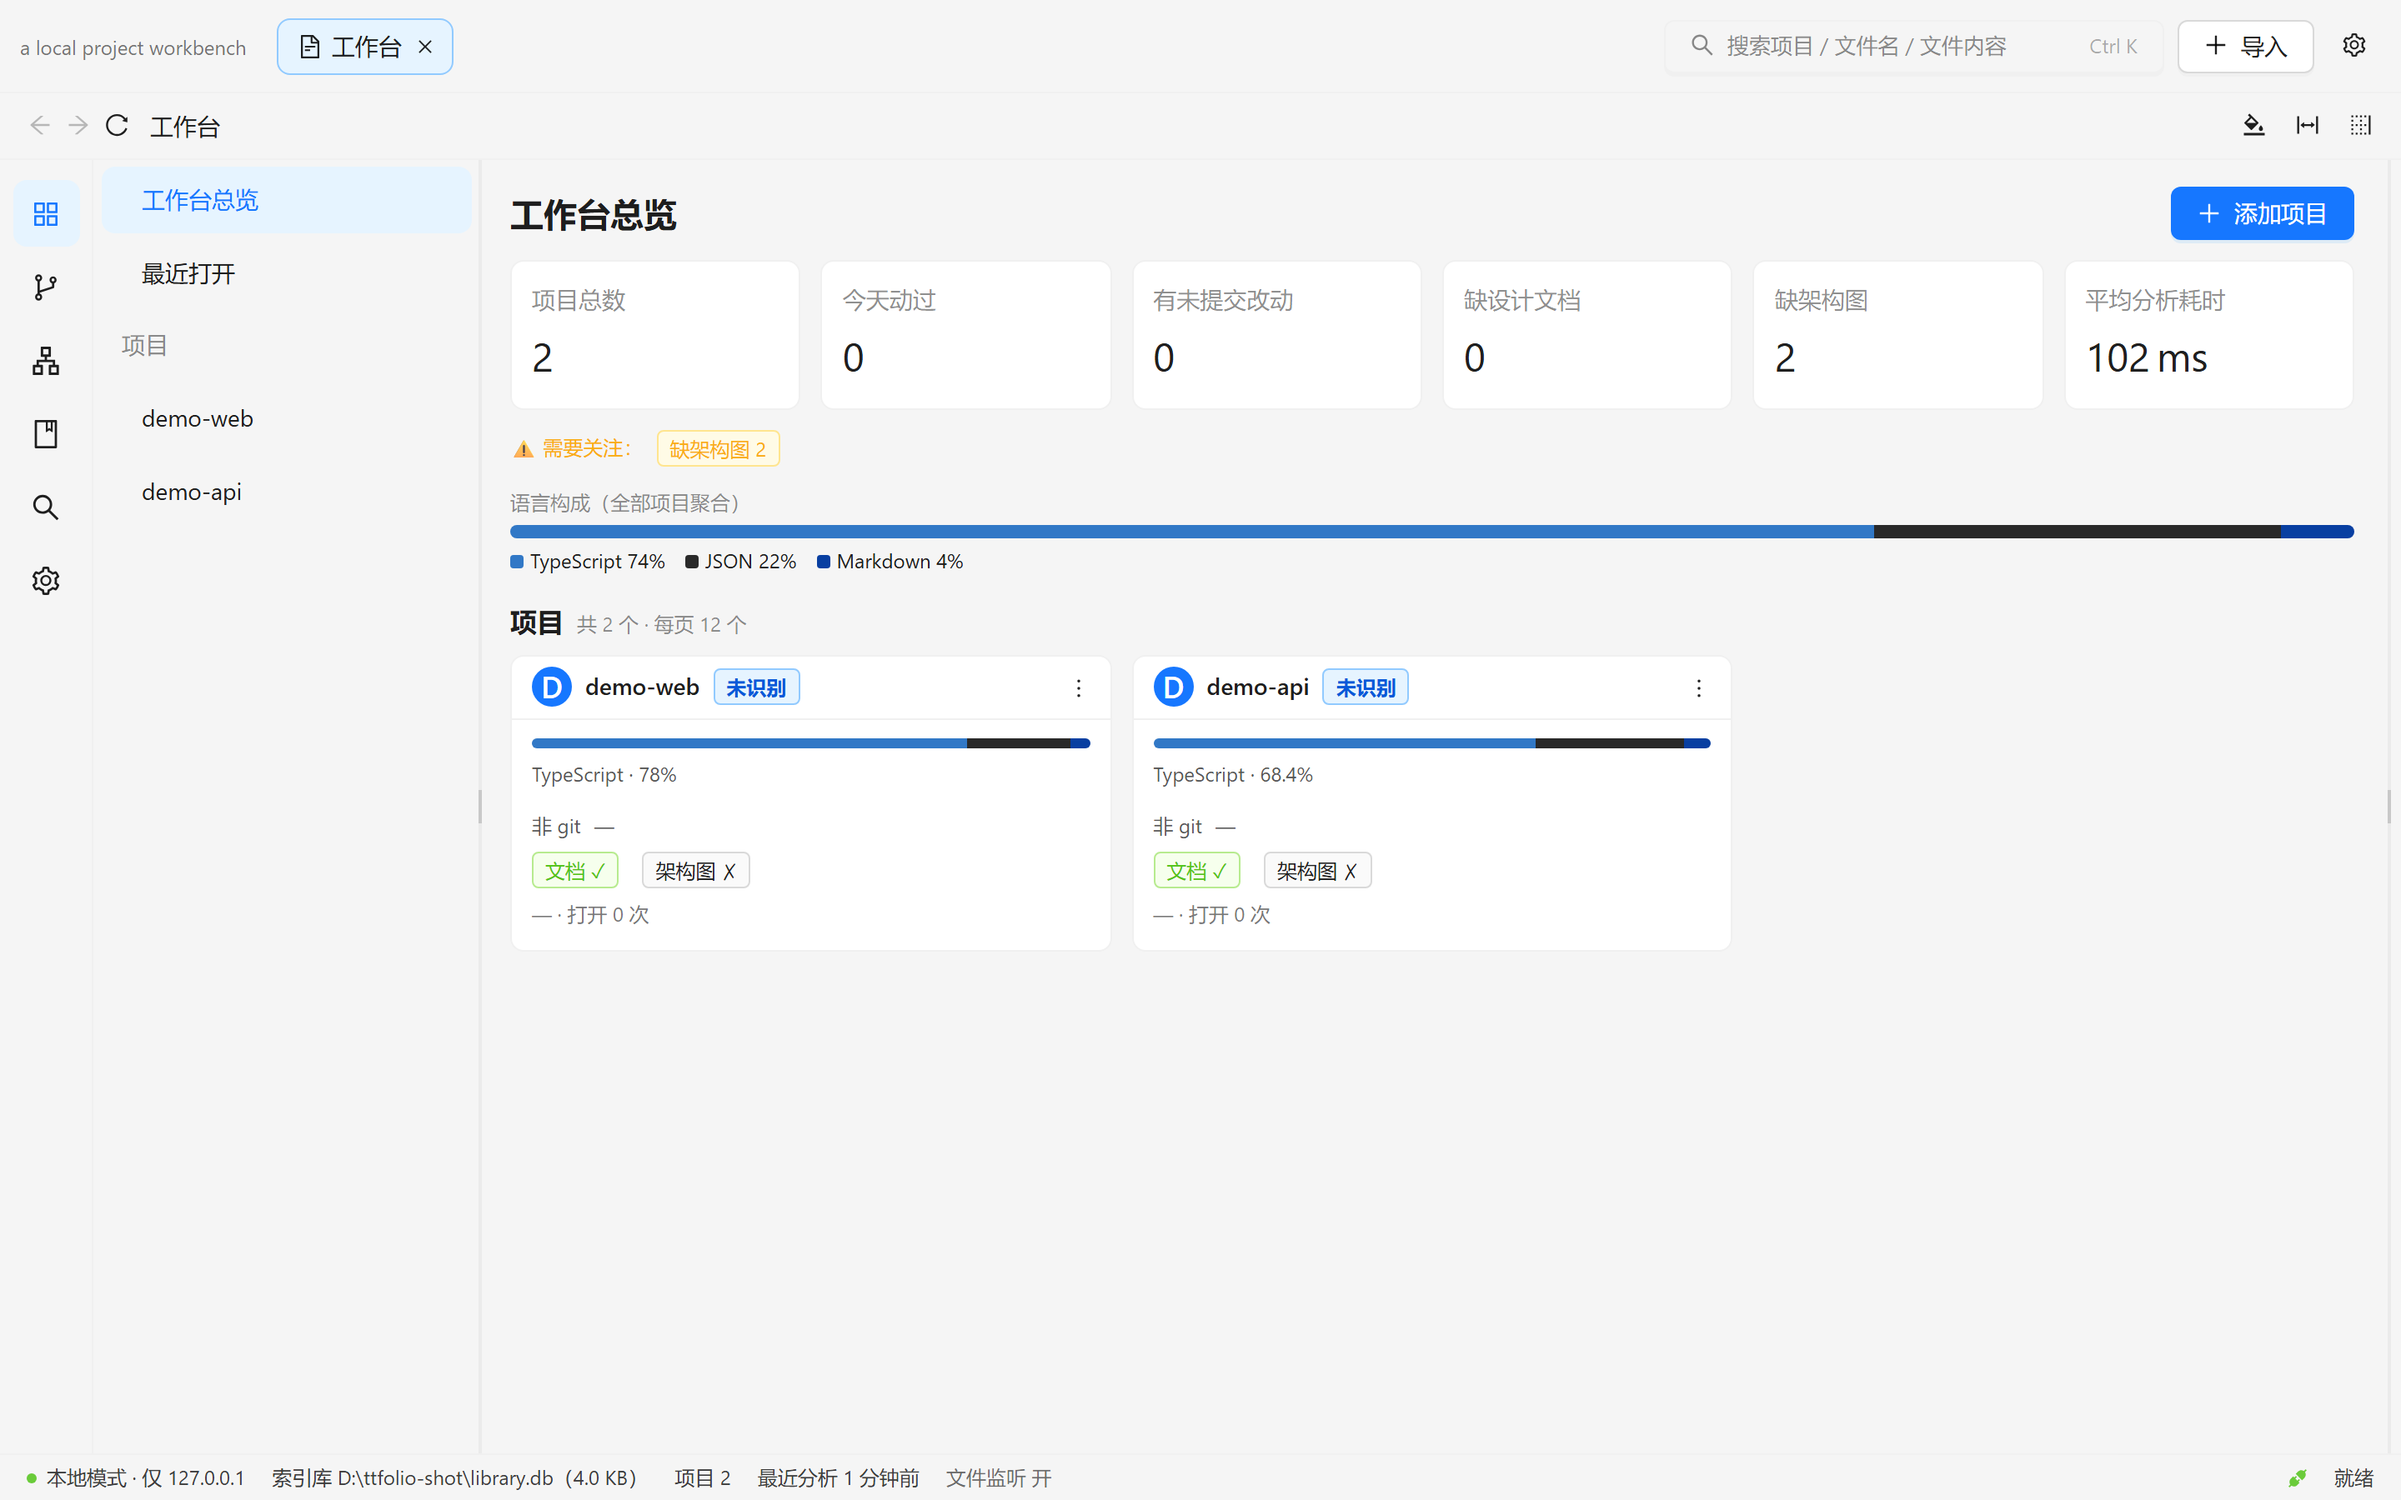
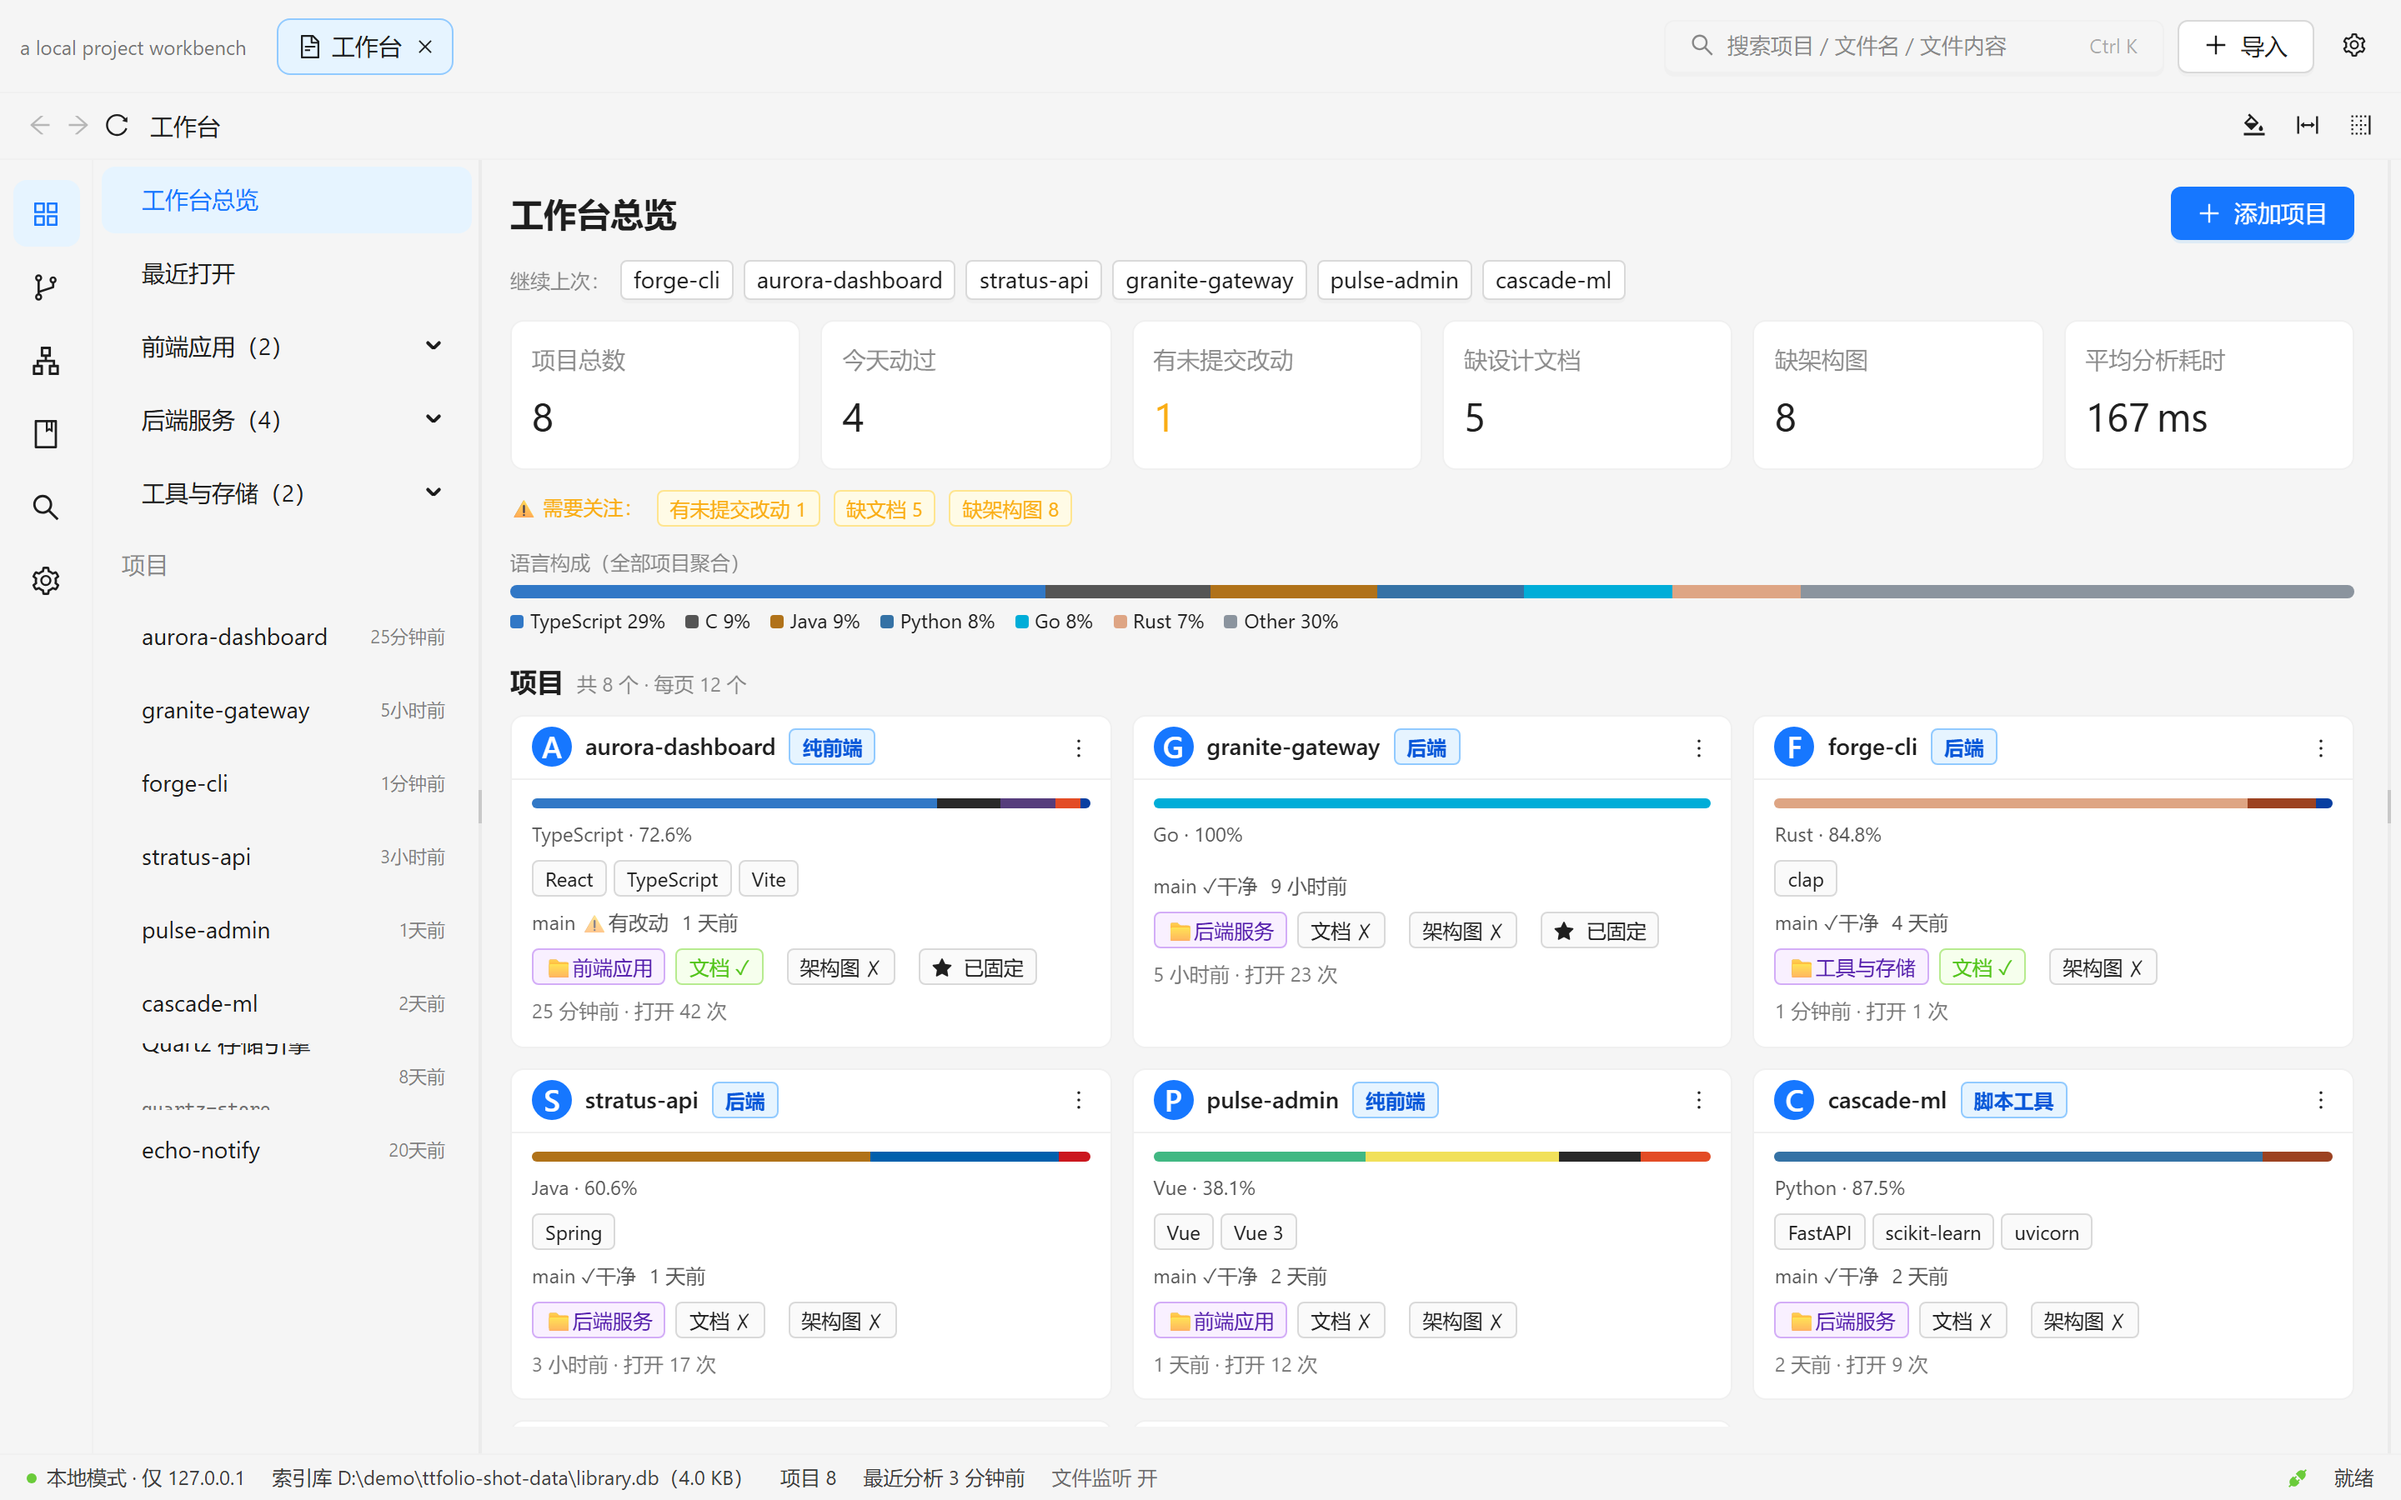
docs(readme): 重制四张界面截图——多语言演示项目 + 电红色发光主题
为什么：用户反馈 GitHub 上 README 图片打不开、中英文显示问题。
取证：三张旧图 blob 在远程树中完好、引用为仓库相对路径，仓库侧
无缺失；裂图多为访问端到 raw 域的网络受限所致（本提交后附实测
结论）。同时旧截图数据单薄（单个演示项目），不足以展示功能全貌，
借机重制为宣传级截图。

影响面：仅文档与图片资产。
- 截图改为隔离实例 + D:\demo 下 8 个演示项目（TypeScript/JavaScript/
  Java/Python/Go/Rust/C 七语言、前端+后端、git 历史、脏工作区、
  集合/标签/固定/备注/打开时间全部演练），零触碰真实数据；
- 四张：浅色总览（KPI/语言构成/集合/相对时间）、电红主题文件编辑
  （树+CodeMirror+备注）、电红主题 Git（状态+历史）、电红主题命令
  面板（内容搜索命中高亮）；
- 两份 README 界面区配图注与叙事顺序，特性列表补「主题」条目；
- 顺修英文版版本徽章漏更（仍 0.2.13，与中文版不同步的「第二处」）。
- 演示仓库 git 身份为 demo <demo@ttfolio.dev>（local config 覆盖，
  截图不含本机全局配置）。

验证：typecheck / lint（0 警告）/ test 99 条全绿；四张图逐张人工
过目（构图/数据丰富度/无真实路径与用户名/隐私零泄漏）；推送后
补充 GitHub 实际渲染与 raw 可达性验证。

Refs: 第 35 轮 README 重制

diff --git a/README.en.md b/README.en.md
@@ -8,7 +8,7 @@
 
 [![License: MIT](https://img.shields.io/badge/License-MIT-blue.svg)](LICENSE)
 [![Platform](https://img.shields.io/badge/Platform-Windows%2010%2F11-0078D6.svg)](../../releases)
-[![Version](https://img.shields.io/badge/version-0.2.13-1677ff.svg)](CHANGELOG.md)
+[![Version](https://img.shields.io/badge/version-0.3.0-1677ff.svg)](CHANGELOG.md)
 
 </div>
 
@@ -24,13 +24,24 @@ ttFolio brings the project folders on your disk into a single workspace: browse 
 - **Search** — Ctrl+K command palette; project / file / content search (SQLite FTS5, CJK friendly, incremental index)
 - **Collections · tags · views** — group projects, collapsible sidebars, tags & notes, card/table views, one-click relocate for missing directories
 - **Dashboard** — KPIs, projects needing attention, aggregated language breakdown, cross-project recent commits
+- **Themes** — light / dark / electric-red (OLED black + red glow) / follow system; native title bar follows
 - **Desktop** — Electron + NSIS installer, in-process server, native dialogs, built-in update check
 
 ## Screenshots
 
+Dashboard (light, default): KPIs, aggregated language breakdown, collections and last-opened times:
+
 ![Dashboard](docs/images/overview.png)
 
+File browsing & editing (electric-red theme): lazy-loading tree, CodeMirror 6, tags & notes:
+
 ![Project files](docs/images/project-files.png)
+
+Git: working-tree status and commit history (no push/pull, no credentials stored):
+
+![Git history](docs/images/git-history.png)
+
+Command palette (Ctrl+K): project / file / content search with highlighted matches:
 
 ![Command palette](docs/images/command-palette.png)
 

diff --git a/README.md b/README.md
@@ -24,13 +24,24 @@ ttFolio 把硬盘上的项目文件夹登记进同一个界面：浏览代码、
 - **搜索** —— Ctrl+K 命令面板；项目名 / 文件名 / 文件内容三档搜索（SQLite FTS5，中文友好，增量索引）
 - **集合 · 标签 · 视图** —— 项目归类与折叠浏览、标签与备注、卡片墙 / 表格视图、失效项目一键重新定位
 - **工作台总览** —— KPI 一览、需要关注的项目、聚合语言构成、跨项目最近提交
+- **主题** —— 浅色 / 深色 / 电红色发光（OLED 纯黑 + 红色光晕）/ 跟随系统；窗口标题栏同步变色
 - **桌面版** —— Electron + NSIS 安装包，进程内服务端，原生文件对话框，内置检查更新
 
 ## 界面
 
+工作台总览（浅色默认）：KPI、聚合语言构成、集合与「最后打开」时间：
+
 ![工作台总览](docs/images/overview.png)
 
+文件浏览与编辑（电红色发光主题）：懒加载文件树、CodeMirror 6、标签与备注：
+
 ![项目文件](docs/images/project-files.png)
+
+Git：工作区状态与提交历史（不做 push/pull，不存储凭据）：
+
+![Git 历史](docs/images/git-history.png)
+
+命令面板（Ctrl+K）：项目 / 文件 / 内容三档搜索，FTS5 中文友好，命中高亮：
 
 ![命令面板](docs/images/command-palette.png)
 
